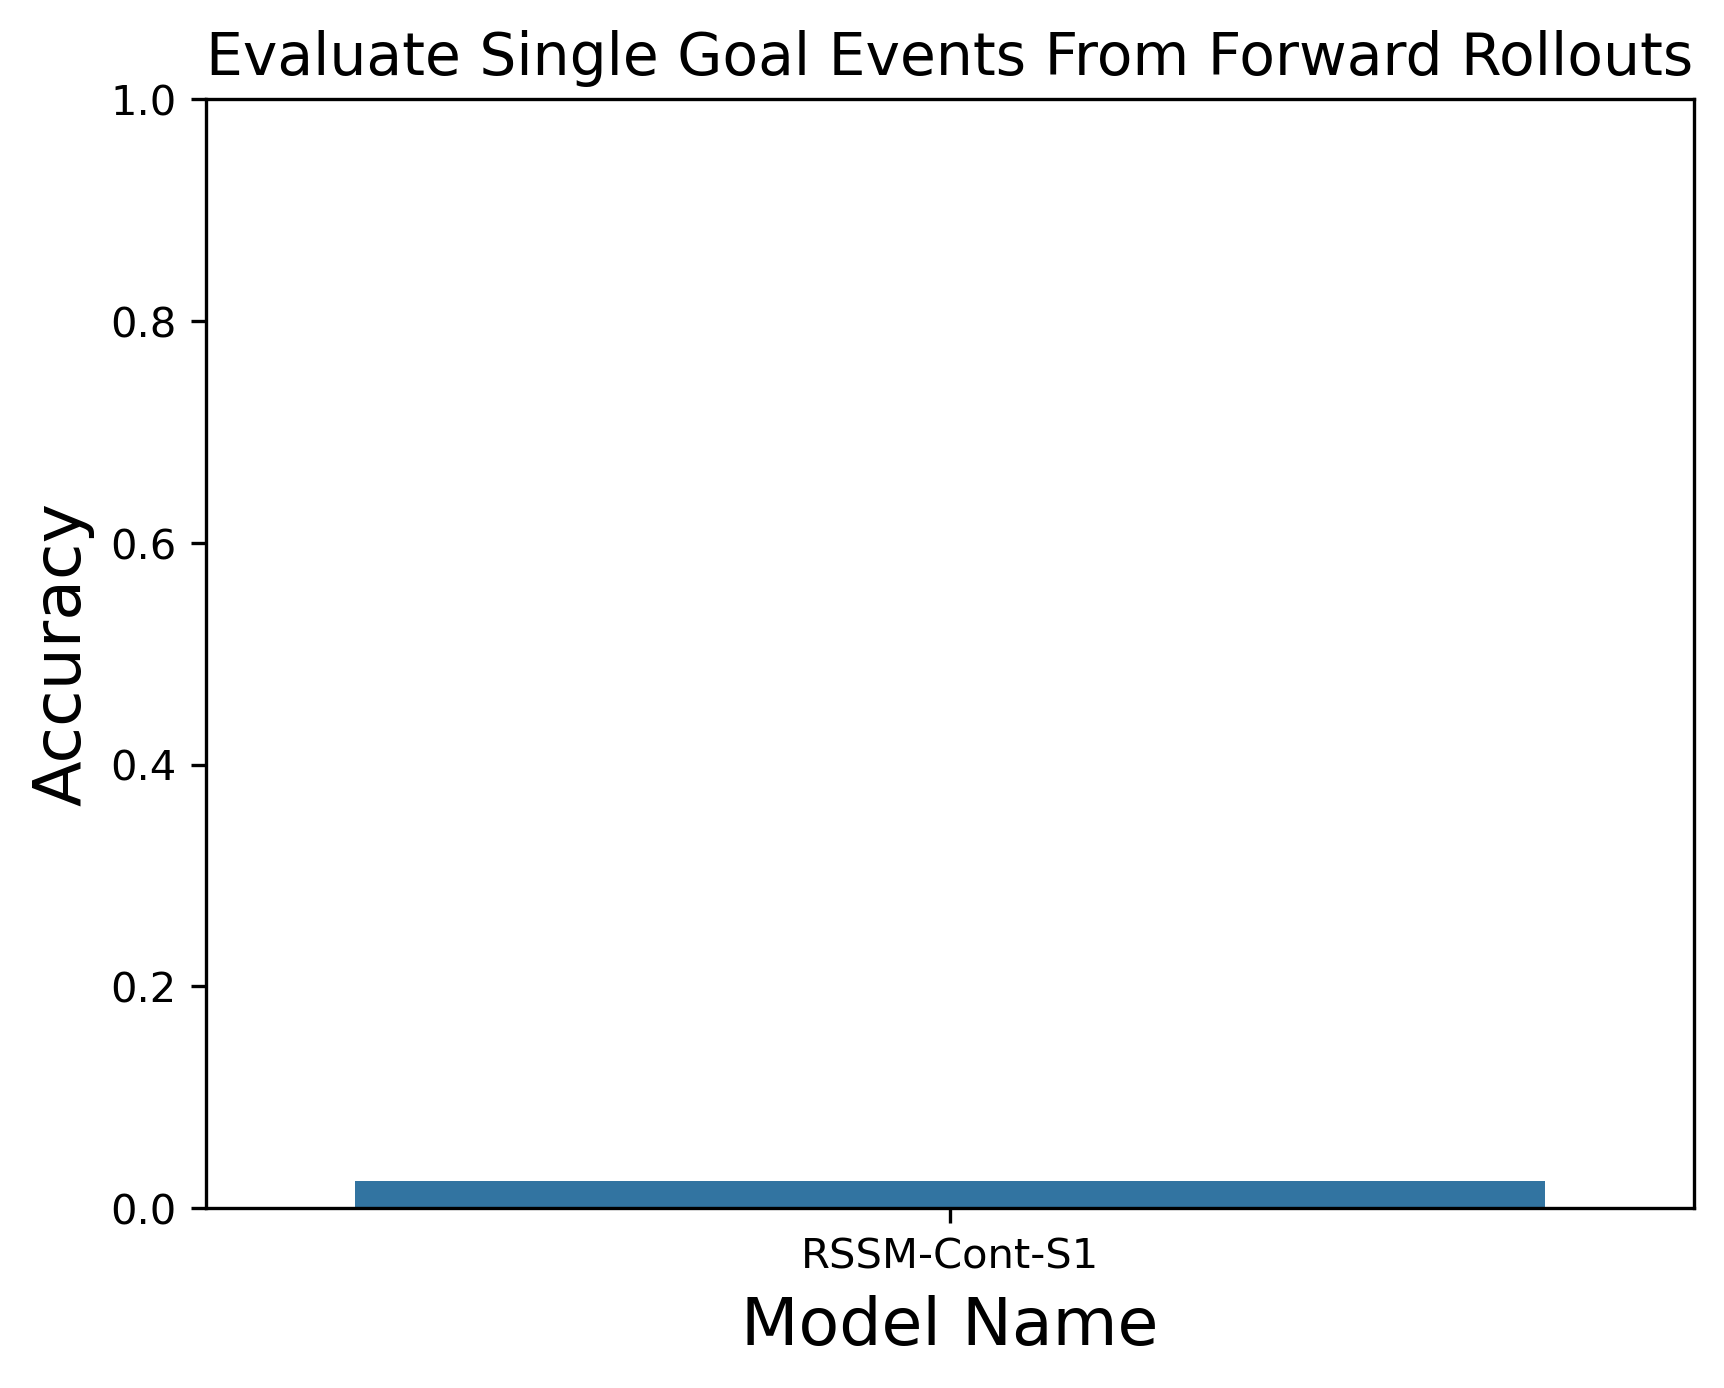
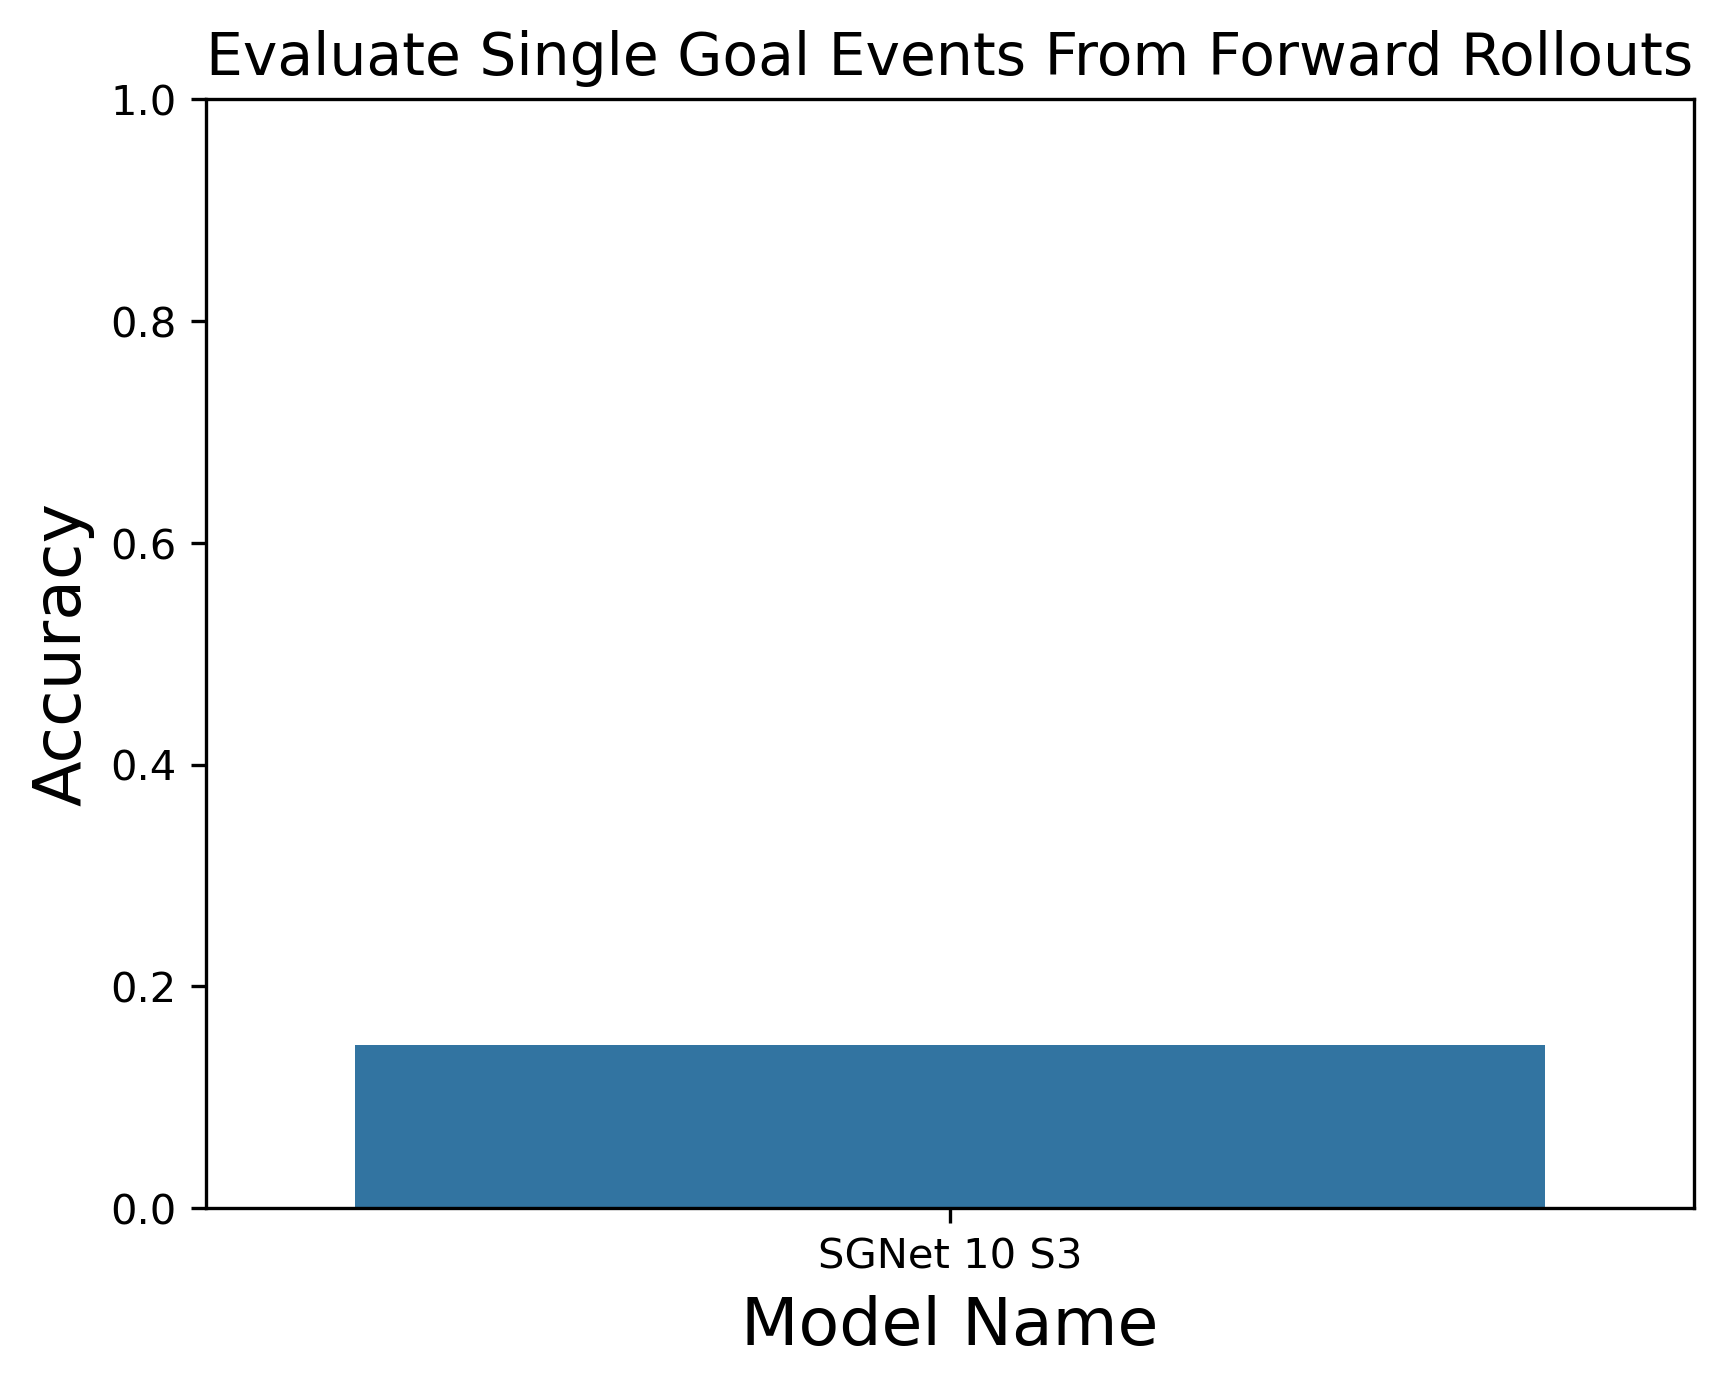
Minor

Changed region(s): [[0.1845, 0.7435, 0.9223, 0.9294]]

diff --git a/constants.py b/constants.py
@@ -109,7 +109,16 @@ MODEL_DICT_VAL=  {
         'model_dir': 'gt_end_state_s3', 'model_label': 'GT End State S3', 'epoch': '5800'},
     'sgnet_cvae_lr1e-4': {
         'class': SGNet_CVAE, 'config': 'sgnet_cvae_default_config.json',
-        'model_dir': 'sgnet_cvae_default_lr1e-4', 'model_label': 'SGNet-H512'},
+        'model_dir': 'sgnet_cvae_default_lr1e-4', 'model_label': 'SGNet-H512'},\
+    'sgnet_10': {
+        'class': SGNet_CVAE, 'config': 'sgnet_cvae_default_config.json',
+        'model_dir': 'sgnet_cvae_default', 'model_label': 'SGNet 10'},
+    'sgnet10_s2': {
+        'class': SGNet_CVAE, 'config': 'sgnet_cvae_default_config.json',
+        'model_dir': 'sgnet10_s2', 'model_label': 'SGNet 10 S2'},
+    'sgnet10_s3': {
+        'class': SGNet_CVAE, 'config': 'sgnet_cvae_default_config.json',
+        'model_dir': 'sgnet10_s3', 'model_label': 'SGNet 10 S3'},
     # 'sgnet_cvae_hidden64_lr1e-4': {
     #     'class': SGNet_CVAE, 'config': 'sgnet_cvae_hidden_size64_config.json',
     #     'model_dir': 'sgnet_cvae_hidden_size64_lr1e-4', 'model_label': 'SGNet-H64'},
@@ -123,8 +132,8 @@ MODEL_DICT_VAL=  {
 data_dir_ccn = '/mnt/fs2/ziyxiang/swm_data_and_results/data/'
 checkpoint_dir_ccn = '/mnt/fs2/ziyxiang/swm_data_and_results/checkpoint/'
 data_dir_ccn2 = '/ccn2/u/ziyxiang/swm_data_and_results/data/'
-#checkpoint_dir_ccn2 = '/ccn2/u/ziyxiang/swm_data_and_results/checkpoint/'   # this has SGNet
-checkpoint_dir_ccn2 = '/ccn2/u/ziyxiang/swm_data_and_results/submission_ckpt/'
+checkpoint_dir_ccn2 = '/ccn2/u/ziyxiang/swm_data_and_results/checkpoint/'   # this has SGNet
+#checkpoint_dir_ccn2 = '/ccn2/u/ziyxiang/swm_data_and_results/submission_ckpt/'
 
 
 DEFAULT_VALUES = {

diff --git a/constants_lc.py b/constants_lc.py
@@ -185,6 +185,12 @@ MODEL_DICT_VAL=  {
     'sgnet_10': {
         'class': SGNet_CVAE, 'config': 'sgnet_cvae_default_config.json',
         'model_dir': 'sgnet_cvae_default', 'model_label': 'SGNet 10'},
+    'sgnet10_s2': {
+        'class': SGNet_CVAE, 'config': 'sgnet_cvae_default_config.json',
+        'model_dir': 'sgnet10_s2', 'model_label': 'SGNet 10 S2'},
+    'sgnet10_s3': {
+        'class': SGNet_CVAE, 'config': 'sgnet_cvae_default_config.json',
+        'model_dir': 'sgnet10_s3', 'model_label': 'SGNet 10 S3'},
     'sgnet_5': {
         'class': SGNet_CVAE, 'config': 'sgnet_cvae_5step_goal.json',
         'model_dir': 'sgnet_cvae_5step', 'model_label': 'SGNet 5'},
